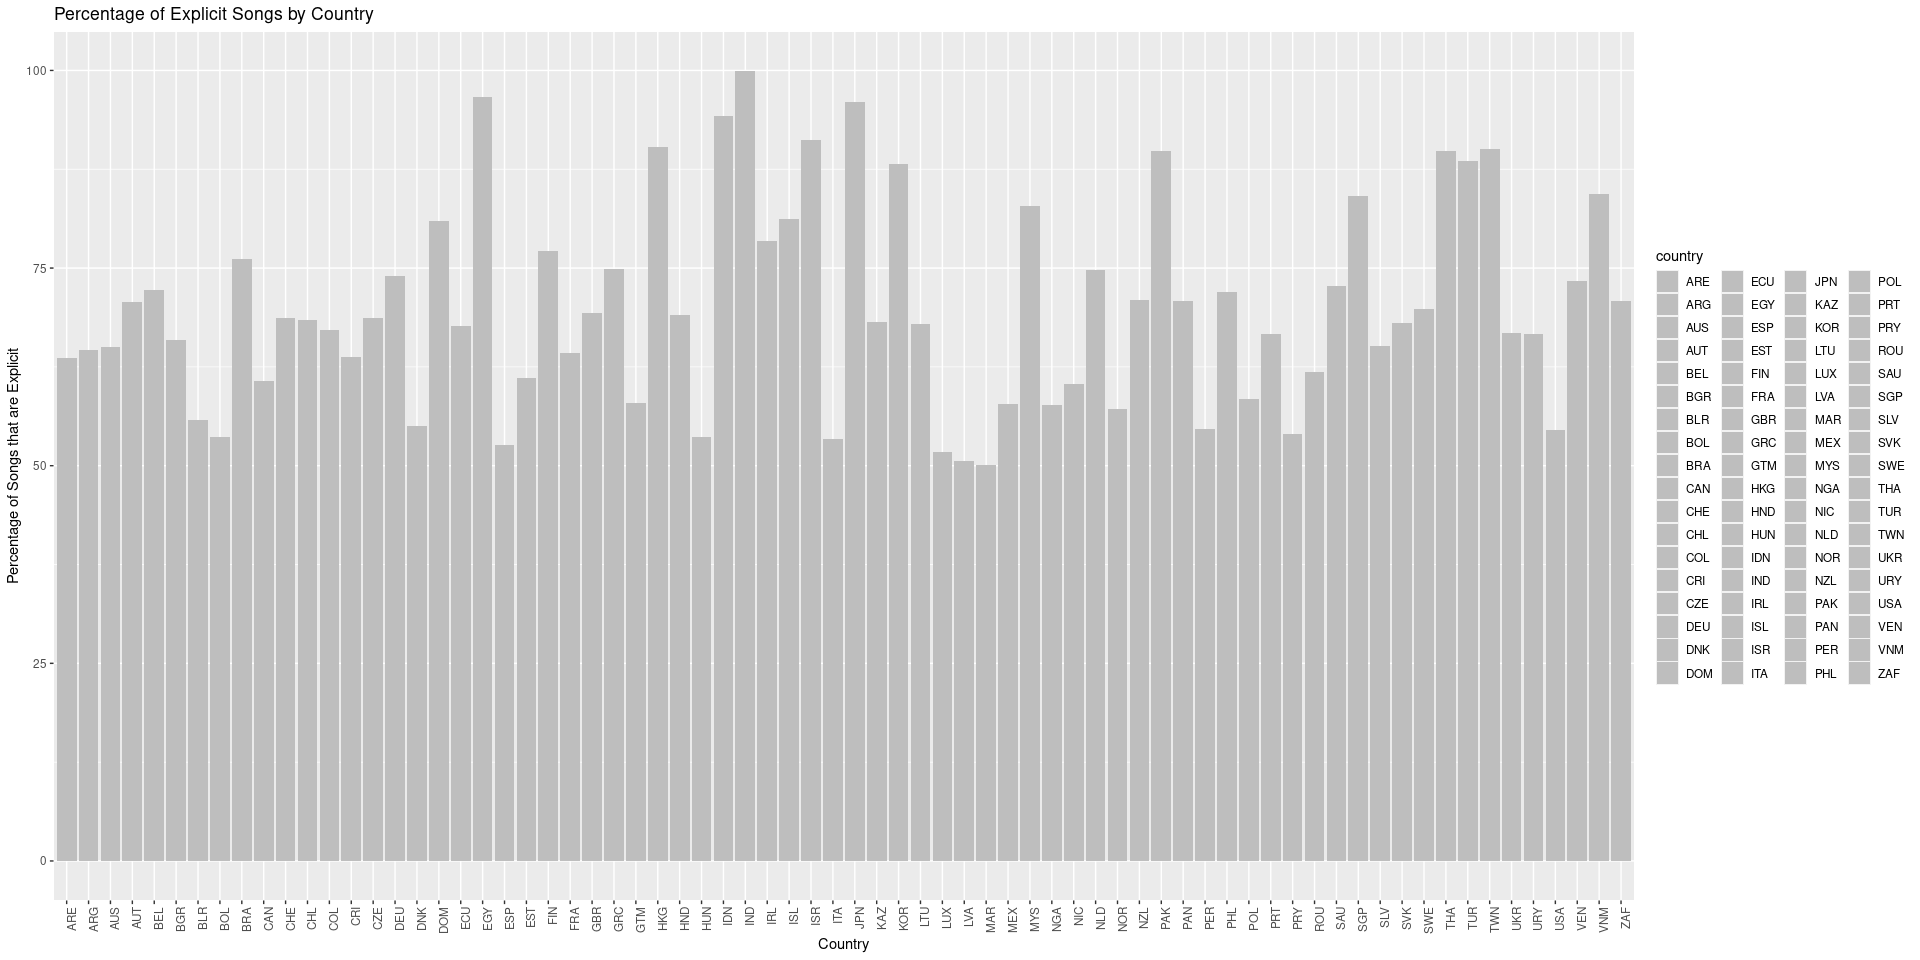
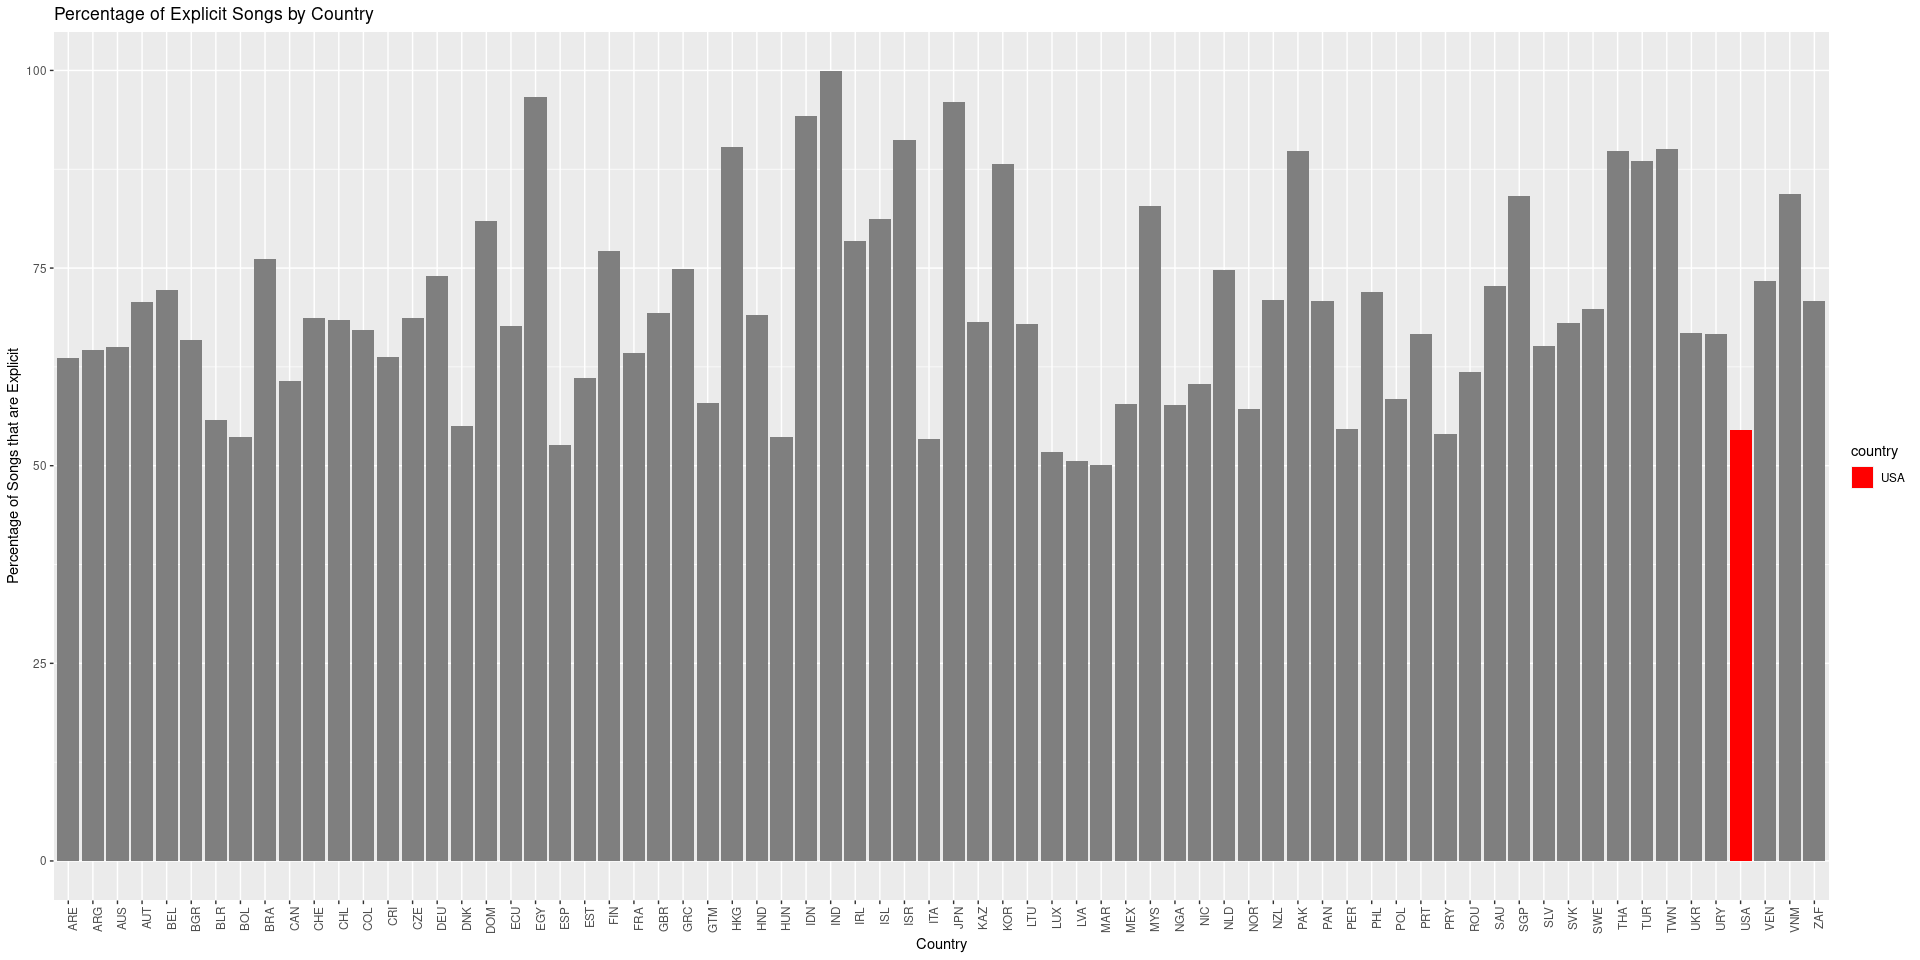
Update README.md

diff --git a/README.md b/README.md
@@ -370,13 +370,14 @@ head(explicit_percent_by_country)
     ## 6 AUS     True          403    35.0
 
 ``` r
-# Create a visual that shows the percentage column value, where the y axis is the percentage of songs that are explicit for each country and the x axis is the country
-# Highlight the USA in red
+# Create a visual that shows the percentage column value, where the y axis is the percentage of songs that are explicit for each country and the x axis is the country.
+# The column that has the country value of "USA" should have it's bar colored red.
+
 ggplot(explicit_percent_by_country, aes(x = country, y = percent, fill = country)) +
   geom_bar(stat = "identity", position = "dodge") +
   theme(axis.text.x = element_text(angle = 90, hjust = 1)) +
   labs(x = "Country", y = "Percentage of Songs that are Explicit", title = "Percentage of Explicit Songs by Country") +
-  scale_fill_manual(values = c(rep("grey", 72), "red"))
+  scale_fill_manual(values = c("USA" = "red", "Other" = "blue"))
 ```
 
 ![](README_files/figure-gfm/unnamed-chunk-11-1.png)<!-- -->
